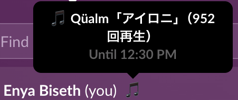
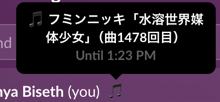
Add status config

diff --git a/internal/webscrobbler/event.go b/internal/webscrobbler/event.go
@@ -1,6 +1,10 @@
 package webscrobbler
 
-import "fmt"
+import (
+	"fmt"
+
+	"scrobble-status/internal/config"
+)
 
 type EventType string
 
@@ -71,10 +75,10 @@ func (s Song) getCurrentTime() int {
 	return s.Parsed.CurrentTime
 }
 
-func (s Song) getPlayCountString() string {
-	return fmt.Sprintf("%d回再生", s.Metadata.UserPlayCount)
-}
-
 func (s Song) getSlackStatus() string {
-	return fmt.Sprintf("%s「%s」（%s）", s.getArtist(), s.getTrack(), s.getPlayCountString())
+	conf, err := config.GetConfig()
+	if err != nil || conf.StatusFormatString == "" {
+		return fmt.Sprintf("%s「%s」（曲%d回目）", s.getArtist(), s.getTrack(), s.Metadata.UserPlayCount)
+	}
+	return fmt.Sprintf(conf.StatusFormatString, s.getArtist(), s.getTrack(), s.Metadata.UserPlayCount)
 }

diff --git a/internal/config/config.go b/internal/config/config.go
@@ -6,11 +6,12 @@ import (
 )
 
 type Config struct {
-	ClientID         string `json:"client_id"`
-	ClientSecret     string `json:"client_secret"`
-	SlackRedirectURI string `json:"slack_redirect_uri"`
-	WSInfoURI        string `json:"ws_info_uri"`
-	AccessToken      string `json:"access_token"`
+	ClientID           string `json:"client_id"`
+	ClientSecret       string `json:"client_secret"`
+	SlackRedirectURI   string `json:"slack_redirect_uri"`
+	WSInfoURI          string `json:"ws_info_uri"`
+	StatusFormatString string `json:"status_format_string"`
+	AccessToken        string `json:"access_token"`
 }
 
 func GetConfig() (conf Config, err error) {

diff --git a/README.md b/README.md
@@ -24,3 +24,7 @@ This program will listen to Web Scrobbler events and automatically update your s
 Once everything is linked, listen to music in your browser [(websites supported by web scrobbler)](https://github.com/web-scrobbler/website-resources/blob/master/resources/connectors.json), and it should just work. Keep in mind that you might want to restart your browser to ensure everything is linked properly, but generally it should not be needed.
 
 Note that while you must have this program and web scrobbler running on the same machine, once you have authenticated slack you can move the config to another machine and it will still work.
+
+## Configurable status message
+
+In config.json, you can change `status_format_string` to specify format of the status. There is no pluralization, and string must be in the format of artist first, then track, then playcount. If you need something more customized, please edit `internal/webscrobbler/event.go`.
